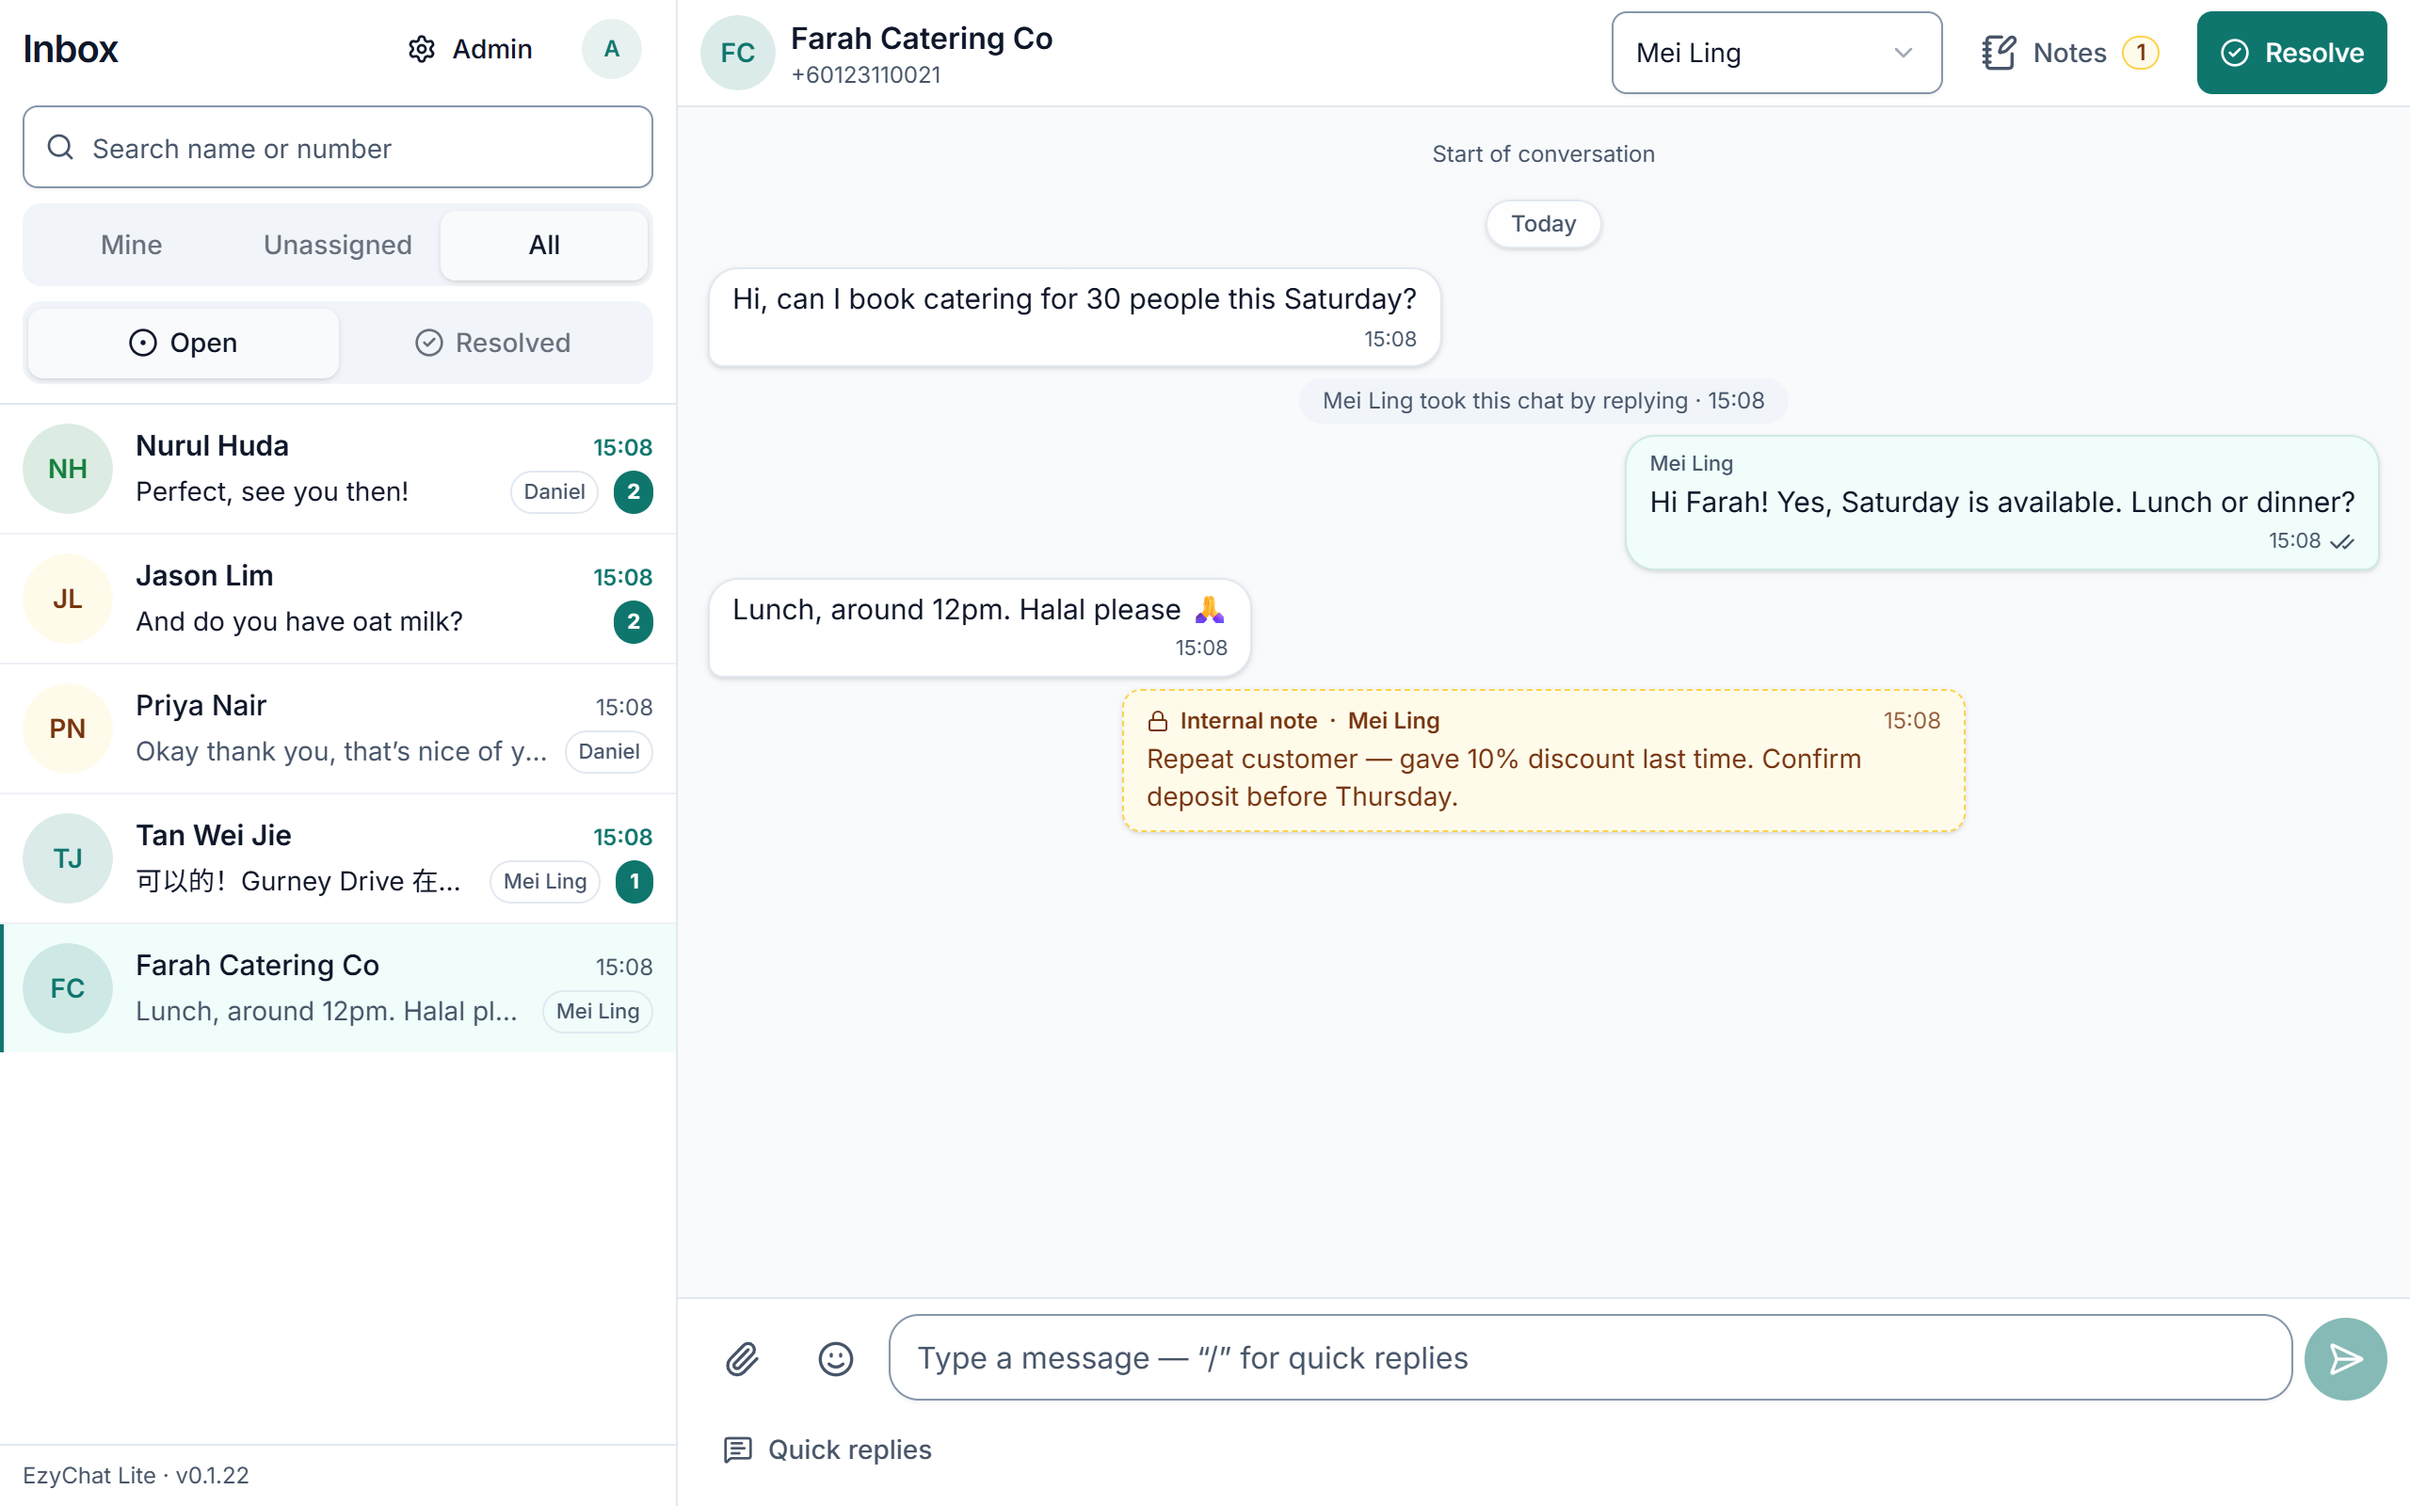
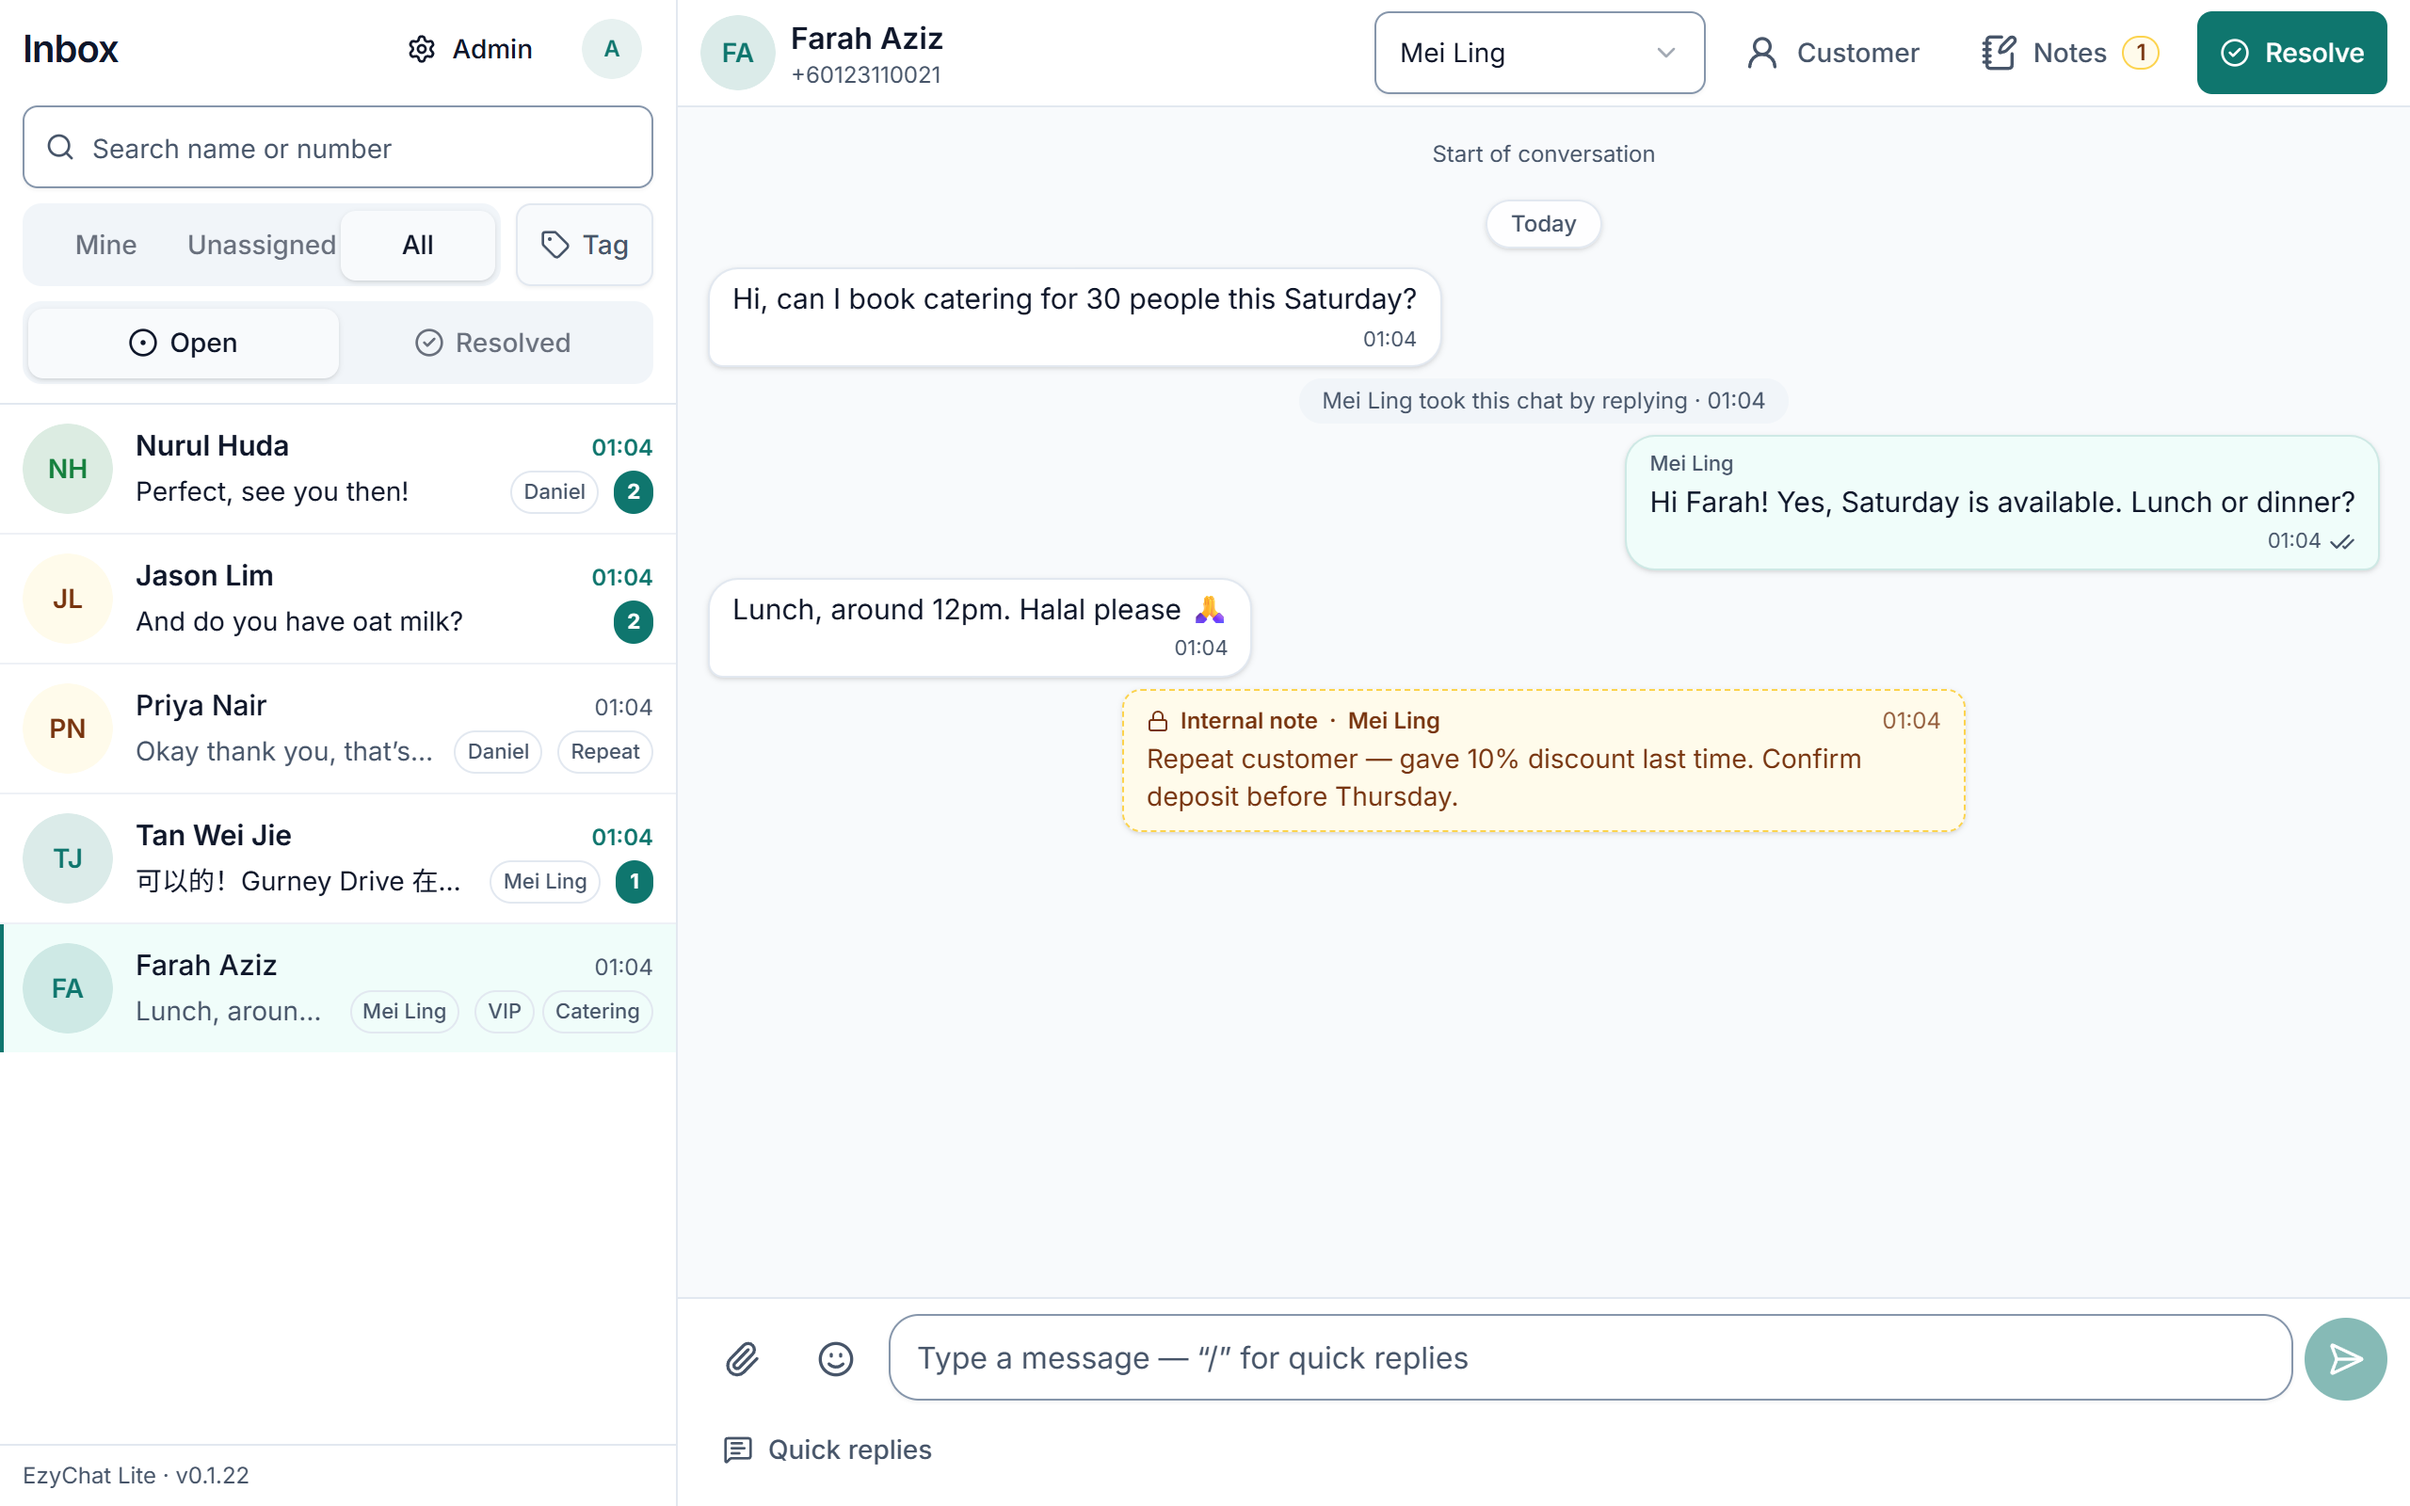
test(e2e): customer profile flow; smoke, screenshots and docs
Claude-Session: https://claude.ai/code/session_01WUjkJoD8xgkFwW7EGE9MuV

diff --git a/e2e/customer-profile.spec.ts b/e2e/customer-profile.spec.ts
@@ -1,0 +1,68 @@
+import {
+  chatHref,
+  chatItem,
+  customerJid,
+  expect,
+  fakeIncoming,
+  inboxHeading,
+  test,
+} from './helpers';
+
+test('customer profile: edit in the chat, live name + tag in the inbox, filter by tag', async ({
+  page,
+  context,
+  baseURL,
+}, info) => {
+  const jid = customerJid(info, 41);
+  await page.goto('/');
+  await expect(inboxHeading(page)).toBeVisible();
+  await fakeIncoming(
+    page,
+    { chatJid: jid, text: 'Hi, catering for 30?', senderName: 'Farah 🌸' },
+    baseURL!,
+  );
+
+  // A second tab stays on the inbox list (also on phones, where an open chat hides the list).
+  const inbox = await context.newPage();
+  await inbox.goto('/');
+  await inbox.getByRole('tab', { name: 'All' }).click();
+  await expect(chatItem(inbox, jid)).toContainText('Farah 🌸');
+
+  await page.goto(chatHref(jid));
+  await page.getByRole('button', { name: 'Customer details' }).click();
+  // Desktop: an aside next to the chat; phones: a sheet (dialog).
+  const panel = page
+    .getByRole('complementary', { name: 'Customer' })
+    .or(page.getByRole('dialog', { name: 'Customer' }));
+  // Desktop, panel beside the chat: the header still shows the customer's name, not one squeezed
+  // letter. (On phones the panel is a modal sheet over the header.)
+  await expect(panel).toBeVisible();
+  if (await page.getByRole('complementary', { name: 'Customer' }).isVisible()) {
+    const title = page.getByRole('heading', { level: 2 }).first().locator('span[title]');
+    const clipped = await title.evaluate((el) => el.scrollWidth > el.clientWidth + 1);
+    expect(clipped, 'customer name is truncated in the chat header').toBe(false);
+  }
+  await panel.getByRole('button', { name: 'Add details' }).click();
+  await panel.getByLabel('Name').fill('Farah Aziz');
+  await panel.getByLabel('Company').fill('Farah Catering Co');
+  const tags = panel.getByRole('combobox');
+  await tags.fill('VIP');
+  await tags.press('Enter');
+  await panel.getByRole('button', { name: 'Save' }).click();
+  await expect(panel.getByText('WhatsApp: Farah 🌸')).toBeVisible();
+  await expect(panel.getByText('Farah Catering Co')).toBeVisible();
+
+  // Live in the other tab: the profile name and the tag chip.
+  await expect(chatItem(inbox, jid)).toContainText('Farah Aziz');
+  await expect(chatItem(inbox, jid)).toContainText('VIP');
+
+  // Filter by tag.
+  await inbox.getByRole('button', { name: 'Filter by tag' }).click();
+  await inbox.getByRole('option', { name: 'VIP' }).click();
+  await expect(chatItem(inbox, jid)).toBeVisible();
+
+  // Search finds the company.
+  await inbox.getByRole('button', { name: 'Clear tag filter' }).click();
+  await inbox.getByRole('searchbox').fill('Catering Co');
+  await expect(chatItem(inbox, jid)).toBeVisible();
+});

diff --git a/docs/LEARNINGS.md b/docs/LEARNINGS.md
@@ -200,6 +200,8 @@ into AGENTS.md.
 - Every screen works at 360px: check dialog bounds and inner clipping (not just page overflow), cap dialog
   height with dynamic viewport units, wrap long titles, and use real 44px hit targets (padded labels).
   After text changes also run `SMOKE_LOCALE=ms node e2e/screens.smoke.mjs` (Malay is longest).
+- In jsdom `useMediaQuery` is false, so panels render as modal Sheets that hide the page from
+  `getByRole`; query background controls with `{ hidden: true }`.
 - Review a UI change on the whole page at 1280 and 360 px, top to bottom, not only the changed
   section: background bands, orphaned blocks and spacing between sections only show in context.
 - Marketing screenshots come from `e2e/marketing-screenshots.mjs` on a fresh `--mode standalone` server

diff --git a/AGENTS.md b/AGENTS.md
@@ -99,6 +99,11 @@ rooms (`all`, `admins`, `user:<id>`; QR codes and tunnel status go to `admins` o
 `push/service.ts` sends web push for `inbound:notify` to the assignee (or every active user if
 unassigned), skipping users who are online.
 
+**Customer profiles.** `packages/server/src/customers/`: one profile per direct chat
+(`customer_profiles`, `customer_tags`), edited by any teammate, audited by changed field names only.
+`rowToChat` prefers the profile name and adds `tags`/`whatsappName`; startup merges carry profiles
+(`customers/merge.ts`); group messages get `senderProfile` via `AliasStore.route()`.
+
 **Contract.** zod schemas in `packages/shared` define every REST body/response and socket payload.
 Change the schema first; server and web both import it.
 

diff --git a/CHANGELOG.md b/CHANGELOG.md
@@ -7,6 +7,13 @@ and this project adheres to [Semantic Versioning](https://semver.org/spec/v2.0.0
 
 ## [Unreleased]
 
+### Added
+
+- **Customer details:** every teammate can save a customer's name, company, email, other phone,
+  address and tags from the chat (**Customer** button next to Notes). The name shows across the inbox
+  with the WhatsApp name kept underneath, search finds these details, the inbox can be filtered by tag,
+  and the customer's name also shows on their messages in group chats.
+
 ### Security
 
 - Voice notes: the 2-minute limit now counts the real audio instead of trusting the length written in
